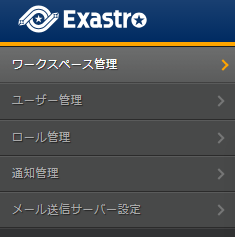
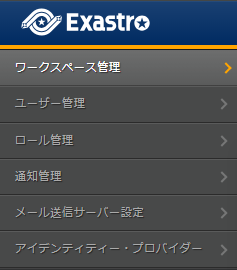
#103 Update IdP setting

diff --git a/src/ja/2.4/manuals/organization_management/idp_settings.rst b/src/ja/2.4/manuals/organization_management/idp_settings.rst
@@ -53,16 +53,32 @@ IdP設定
 
 #. | メニューより :menuselection:`アイデンティティー・プロバイダー` をクリックします。
 
+   .. image:: /images/ja/manuals/platform/platform_menu.png
+      :width: 200px
+      :align: left
+
    .. note:: | 利用できない場合は、メニューに :menuselection:`アイデンティティー・プロバイダー` は表示されません。
 
 #. | パネルより :menuselection:`OpenID Connect v1.0` をクリックします。
+
+   .. figure:: /images/ja/manuals/platform/idp_settings/idp_settings_select_provider.png
+      :width: 600px
+      :align: left
 
    .. note:: | 本説明では、OpenID Connect v1.0を利用した際の設定を記述しております。
       | 登録する種類や設定によって、選択するパネルは異なります。
 
 #. | 事前に準備した情報の入力ならびに、エリアス・表示名・クライアント認証を入力・選択して、 :guilabel:`追加` ボタンをクリックします。
 
-#. | メタデータの情報で、各種情報が設定されますので、 :guilabel:`保存` ボタンをクリックします。
+   .. figure:: /images/ja/manuals/platform/idp_settings/idp_settings_regist_provider.png
+      :width: 600px
+      :align: left
+
+#. | メタデータの情報で各種情報が設定されますので、 :guilabel:`保存` ボタンをクリックします。
+
+   .. figure:: /images/ja/manuals/platform/idp_settings/idp_settings_save_provider.png
+      :width: 600px
+      :align: left
 
 アイデンティティー・プロバイダー設定一覧
 ^^^^^^^^^^^^^^^^^^^^^^^^^^^^^^^^^^^^^^^^
@@ -70,7 +86,16 @@ IdP設定
 #. | Exastro システムにオーガナイゼーション管理者でログインします。
 
 #. | メニューより :menuselection:`アイデンティティー・プロバイダー` をクリックします。
-   | 登録済みの設定がある場合は、一覧表示されます。
+
+   .. image:: /images/ja/manuals/platform/platform_menu.png
+      :width: 200px
+      :align: left
+
+#. | 登録済みの設定がある場合は、一覧表示されます。
+
+   .. figure:: /images/ja/manuals/platform/idp_settings/idp_settings_providers_list.png
+      :width: 600px
+      :align: left
    
 アイデンティティー・プロバイダー設定追加
 ^^^^^^^^^^^^^^^^^^^^^^^^^^^^^^^^^^^^^^^^
@@ -79,7 +104,19 @@ IdP設定
 
 #. | メニューより :menuselection:`アイデンティティー・プロバイダー` をクリックします。
 
+   .. image:: /images/ja/manuals/platform/platform_menu.png
+      :width: 200px
+      :align: left
+
 #. |  :guilabel:`Add Provider` をクリックし、該当のサービスを選択して追加します。
+
+   .. figure:: /images/ja/manuals/platform/idp_settings/idp_settings_add_provider.png
+      :width: 600px
+      :align: left
+
+   .. figure:: /images/ja/manuals/platform/idp_settings/idp_settings_select_add_provider.png
+      :width: 600px
+      :align: left
    
 アイデンティティー・プロバイダー設定編集
 ^^^^^^^^^^^^^^^^^^^^^^^^^^^^^^^^^^^^^^^^
@@ -88,7 +125,15 @@ IdP設定
 
 #. | メニューより :menuselection:`アイデンティティー・プロバイダー` をクリックします。
 
+   .. image:: /images/ja/manuals/platform/platform_menu.png
+      :width: 200px
+      :align: left
 
+#. | 一覧から編集対象のプロバイダーを選択して編集します。
+
+   .. figure:: /images/ja/manuals/platform/idp_settings/idp_settings_select_edit_provider.png
+      :width: 600px
+      :align: left
 
 アイデンティティー・プロバイダー設定削除
 ^^^^^^^^^^^^^^^^^^^^^^^^^^^^^^^^^^^^^^^^
@@ -97,12 +142,30 @@ IdP設定
 
 #. | メニューより :menuselection:`アイデンティティー・プロバイダー` をクリックします。
 
+   .. image:: /images/ja/manuals/platform/platform_menu.png
+      :width: 200px
+      :align: left
+
 #. | 一覧から削除対象の設定の :guilabel:`...` をクリックし、表示された :guilabel:`Delete` ボタンをクリックします。
+
+   .. figure:: /images/ja/manuals/platform/idp_settings/idp_settings_select_delete_provider.png
+      :width: 600px
+      :align: left
+
+#. | 表示された確認メッセージの :guilabel:`Delete` ボタンをクリックします。
+
+   .. figure:: /images/ja/manuals/platform/idp_settings/idp_settings_delete_provider.png
+      :width: 600px
+      :align: left
 
 ログイン
 ========
 
 #. | 上述の設定完了後、ログイン画面に設定した表示名が表示されるようになります。
+
+   .. figure:: /images/ja/manuals/platform/idp_settings/idp_settings_login.png
+      :width: 600px
+      :align: left
 
 #. | 設定した表示名をクリックしログインしてください。
 
